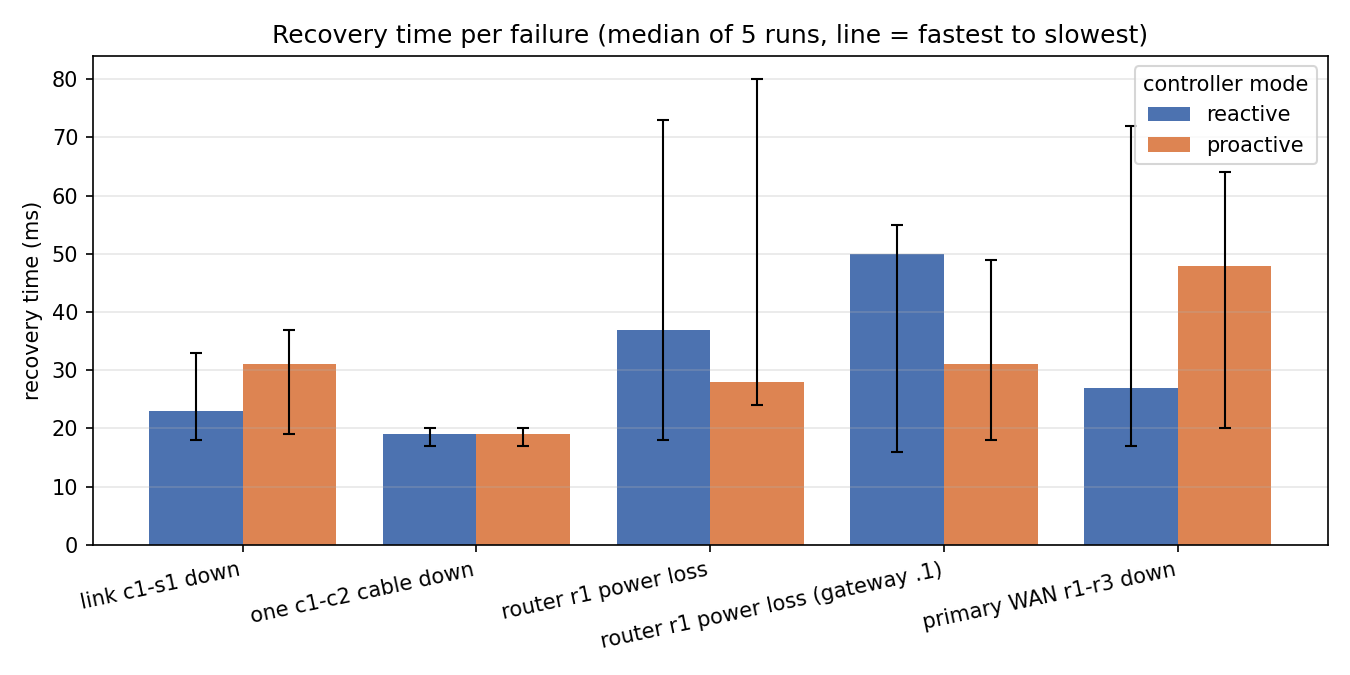
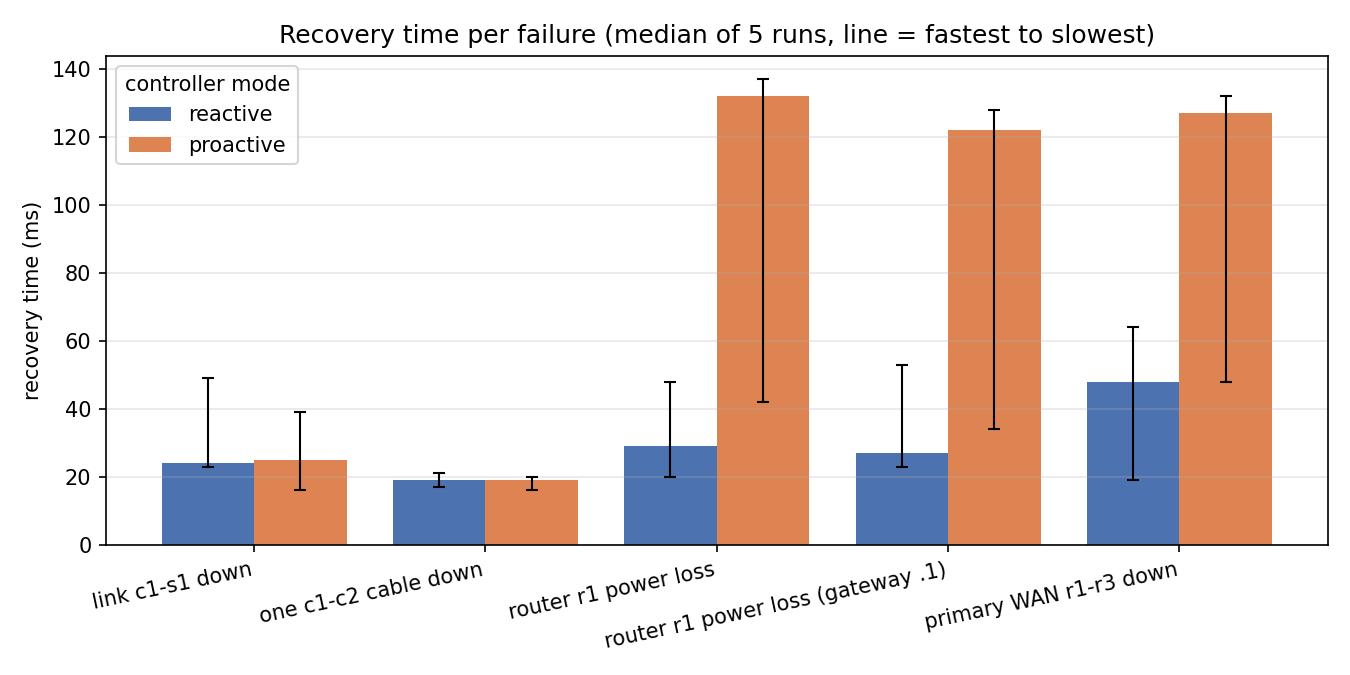
T29: final hardening, three rounds from a fresh boot (D40)
- 150/150 failure runs healed, 15/15 insider runs blocked (median 6.3 s)
- check suite 140/142 after a reboot: the rogue-DHCP test's proof checks fail; recorded
  as a known issue, and every document now says 140/142 instead of 142/142
- reactive vs proactive: the faster mode changes run to run; docs no longer claim one wins
- no secrets in Git or its history; results from round 3 committed

diff --git a/topology/checks.py b/topology/checks.py
@@ -563,9 +563,9 @@ def check_rogue(net, lab, r):
         fake.cmd(f"printf 'interface {fake.name}-eth0\\nstart 192.168.40.150\\nend 192.168.40.160\\n"
                  f"lease_file {d}/udhcpd.leases\\npidfile {d}/udhcpd.pid\\nopt router 192.168.40.66\\n' > {d}/udhcpd.conf;"
                  f" touch {d}/udhcpd.leases; busybox udhcpd -f {d}/udhcpd.conf > {d}/udhcpd.txt 2>&1 &")
-        # Wait until the fake server is really listening on UDP 67 (up to 5 s). A fixed 1 s sleep
-        # was too short straight after a VM boot: the request came before the fake server was
-        # up, so it never offered anything and the test had nothing to prove (T29).
+        # Wait until the fake server is listening on UDP 67 (up to 5 s). Known issue (D40): after a
+        # fresh VM boot the fake server still never sends an OFFER, so the two proof checks below
+        # fail; the protection check above passes. Cause not yet found.
         for _ in range(25):
             if fake.cmd("ss -Hlun 'sport = :67'").strip():
                 break

diff --git a/docs/testing.md b/docs/testing.md
@@ -10,7 +10,7 @@ from a file in [`docs/results/`](results).
 |------|------------------------|------|--------|
 | Environment | `./scripts/vm/vm.sh ./scripts/check_env.sh --smoke` | 1 min | ✅ per tool |
 | Config | `./scripts/vm/vm.sh python3 scripts/check_config.py` | seconds | errors, if any |
-| Full health + failure suite | `./scripts/vm/vm.sh sudo ./scripts/start_all.sh --check` | ~8 min | 142 checks, exit code = failures |
+| Full health + failure suite | `./scripts/vm/vm.sh sudo ./scripts/start_all.sh --check` | ~8 min | 142 checks (140 pass after a reboot, see §6), exit code = failures |
 | Chaos test (T25) | `./scripts/vm/vm.sh sudo python3 scripts/chaos_test.py` | ~30 min | `results.csv`, `summary.csv`, `detection.csv`, 3 charts |
 | One failure only | `./scripts/vm/vm.sh sudo python3 scripts/chaos_test.py --runs 1 --only WAN` | 2 min | same files |
 | Threat scoring | `./scripts/vm/vm.sh '~/venvs/fortress/bin/python detection/threat_engine.py --self-check'` | seconds | worked examples pass |
@@ -19,7 +19,10 @@ from a file in [`docs/results/`](results).
 
 Only one lab can run in the VM at a time: each of these starts its own and clears any other.
 
-## 2. The health and failure suite (`start_all.sh --check`): 142/142
+## 2. The health and failure suite (`start_all.sh --check`): 140/142
+
+142/142 on a lab that has been running a while; **140/142 straight after a VM reboot**, in all three
+T29 rounds: the rogue-DHCP test's two *proof* checks fail (known issue, §6 and D40).
 
 [`topology/checks.py`](../topology/checks.py) runs these in order on the live lab. The first group
 only looks; the second (marked ⚡) breaks things on purpose and checks the repair.
@@ -68,22 +71,20 @@ Result, from [`summary.csv`](results/summary.csv) (all 50 runs healed by themsel
 
 | Failure | Mechanism | Reactive median (min-max) | Proactive median (min-max) |
 |---------|-----------|---------------------------|----------------------------|
-| Link c1-s1 down | SDN reroute / fast-failover | 23 ms (18-33) | 31 ms (19-37) |
-| One c1-c2 cable down | link aggregation | 19 ms (17-20) | 19 ms (17-20) |
-| r1 power loss (routed traffic) | VRRP | 37 ms (18-73) | 28 ms (24-80) |
-| r1 power loss (pinging the gateway) | VRRP takeover | 50 ms (16-55) | 31 ms (18-49) |
-| Primary WAN r1-r3 down | OSPF, VPN on loopbacks | 27 ms (17-72) | 48 ms (20-64) |
+| Link c1-s1 down | SDN reroute / fast-failover | 24 ms (23-49) | 25 ms (16-39) |
+| One c1-c2 cable down | link aggregation | 19 ms (17-21) | 19 ms (16-20) |
+| r1 power loss (routed traffic) | VRRP | 29 ms (20-48) | 132 ms (42-137) |
+| r1 power loss (pinging the gateway) | VRRP takeover | 27 ms (23-53) | 122 ms (34-128) |
+| Primary WAN r1-r3 down | OSPF, VPN on loopbacks | 48 ms (19-64) | 127 ms (48-132) |
+
+This is the final committed run (T29 round 3). Across all three T29 rounds, from a fresh VM boot
+each time, **150 of 150 failure runs healed by themselves**.
 
 ![Recovery per failure](results/recovery_by_failure.png)
 
 **Reading the numbers honestly.** Mininet hosts manage about 55 pings/s, so the measurement
 resolves about 20 ms; most of these recoveries are at or near that floor. What the table really
-shows: every failure heals by itself, in well under a tenth of a second, in both modes. Between
-the modes there is **no consistent difference**: across two full runs, the faster mode flipped for
-the cut cable and the WAN cut. The one repeatable gap is r1's power loss (proactive 26 and 28 ms,
-reactive 50 and 37 ms), where the proactive backup buckets move traffic to r2's port without
-waiting for the controller. In this small, fast lab the controller reacts almost as quickly as the
-switch; fast-failover would matter more where the controller is far away or busy. VRRP itself takes 0.7 s to declare r2
+shows: every failure heals by itself, within about a tenth of a second at worst, in both modes. Between the modes there is **no consistent difference**: across five full runs, the faster mode changed from run to run for every failure (in the final run proactive was slower when r1 died or the WAN was cut, about 130 ms, while in the run before it was faster). In this small, fast lab the controller reacts about as quickly as the switch itself; fast-failover would matter more where the controller is far away or busy. VRRP itself takes 0.7 s to declare r2
 Master, yet hosts lose nothing, because r2 already owns the virtual MAC and forwards as soon as
 frames reach it (D39).
 
@@ -126,6 +127,11 @@ Testing earned its keep: each of these was found by a test, not by reading code.
 | demo rehearsal | FOB traffic pauses ~5 s while r1 is dead | known limit, explained in the demo; fix = second tunnel on r2 | D28 |
 
 ## 6. Known limits
+
+- **After a fresh VM boot, `--check` is 140/142.** The rogue-DHCP test's protection check passes
+  (the victim still gets its address from srv1), but its fake DHCP server never sends an offer, so
+  the two checks that prove the controller dropped it fail. Passes on a lab that has been running.
+  Recorded, cause not found (D40).
 
 - **r1 dying stops FOB traffic for about 3-5 s.** The tunnel lives on r1; r3 must first notice r1
   is dead (dead-peer detection) before traffic falls back, unencrypted, via r2. A second tunnel on

diff --git a/CLAUDE.md b/CLAUDE.md
@@ -113,9 +113,10 @@ Follow these in every network task. If one turns out wrong, change `docs/decisio
 
 ## Status
 Live claims are in the `CLAUDE-CODE-TASKS.md` checklist; this is a short summary.
-- Done: T-1 (scripts; each member runs `create_vm.sh` on their own machine), T00 (this file), T01 (scaffold + `config/fortress.yaml`), T02 (`setup_vm.sh`, `check_env.sh`; Ryu on 3.9; snapshot `clean-setup`), T02b (decisions D10–D15), T03 (`topology/fortress_topo.py`, `--check`), T04 (dnsmasq on srv1, relays on r1/r2, udhcpc), T05 (FRR OSPF per router, floating static, NAT), T06 (VRRP via vrrpd + macvlan; `fail`/`recover` CLI), T07 (`start_all.sh` / `stop_all.sh`), T08 (Ryu controller: 4-table pipeline, controller flooding; D21), T09 (reroute on port-down, `reroutes.jsonl`), T09b (`scripts/measure.py`, `docs/results/early.csv`), T10 (c1-c2 aggregation via select groups, not an OVS bond; D24), T11 (`--mode proactive`: fast-failover groups; D25), T12 (HTB queues + controller set_queue; D26), T13 (controller drops never-talk pairs, r1/r2 stateful firewall, port security, rogue DHCP; D27), T14 (strongSwan r1<->r3 via VICI; D28), T15 (sshd per node, Management-only; rsyslog to srv2; D29), T17 (Suricata on both core mirrors; D30), T18 (flow collector, baseline traffic, srv3 web server; D31), T19 (Isolation Forest, 2.2% false positives; D32), T20 (explainable score with correlation; D33), T21 (block at the access port with expiry; D34), T23 (exporter, Prometheus, provisioned Grafana dashboard; D35), T24 (Telegram alert with reasons, incident reports; D36), T25 (`scripts/chaos_test.py` + `charts.py`: 5 failures x 5 runs x 2 modes, all self-healed, plus insider timing in `detection.csv`; found and fixed the VPN dying on a cut WAN, now between loopbacks; D39), T26 (`scripts/demo.sh`, `--auto` rehearsal), T27 (README, `docs/architecture.md`, `docs/testing.md`, `docs/cisco-equivalents.md`, `docs/report/report.md`), T28 (`docs/viva-prep.md`: every viva topic with a short answer linked to the code line). Tag: `v0.6-detection`. Tags: `v0.1-base`, `v0.2-routing`, `v0.3-selfheal`, `v0.4-security`.
+- Done: T-1 (scripts; each member runs `create_vm.sh` on their own machine), T00 (this file), T01 (scaffold + `config/fortress.yaml`), T02 (`setup_vm.sh`, `check_env.sh`; Ryu on 3.9; snapshot `clean-setup`), T02b (decisions D10–D15), T03 (`topology/fortress_topo.py`, `--check`), T04 (dnsmasq on srv1, relays on r1/r2, udhcpc), T05 (FRR OSPF per router, floating static, NAT), T06 (VRRP via vrrpd + macvlan; `fail`/`recover` CLI), T07 (`start_all.sh` / `stop_all.sh`), T08 (Ryu controller: 4-table pipeline, controller flooding; D21), T09 (reroute on port-down, `reroutes.jsonl`), T09b (`scripts/measure.py`, `docs/results/early.csv`), T10 (c1-c2 aggregation via select groups, not an OVS bond; D24), T11 (`--mode proactive`: fast-failover groups; D25), T12 (HTB queues + controller set_queue; D26), T13 (controller drops never-talk pairs, r1/r2 stateful firewall, port security, rogue DHCP; D27), T14 (strongSwan r1<->r3 via VICI; D28), T15 (sshd per node, Management-only; rsyslog to srv2; D29), T17 (Suricata on both core mirrors; D30), T18 (flow collector, baseline traffic, srv3 web server; D31), T19 (Isolation Forest, 2.2% false positives; D32), T20 (explainable score with correlation; D33), T21 (block at the access port with expiry; D34), T23 (exporter, Prometheus, provisioned Grafana dashboard; D35), T24 (Telegram alert with reasons, incident reports; D36), T25 (`scripts/chaos_test.py` + `charts.py`: 5 failures x 5 runs x 2 modes, all self-healed, plus insider timing in `detection.csv`; found and fixed the VPN dying on a cut WAN, now between loopbacks; D39), T26 (`scripts/demo.sh`, `--auto` rehearsal), T27 (README, `docs/architecture.md`, `docs/testing.md`, `docs/cisco-equivalents.md`, `docs/report/report.md`), T28 (`docs/viva-prep.md`: every viva topic with a short answer linked to the code line), T29 (3 clean-boot rounds: 150/150 failures healed, 15/15 insiders blocked, `--check` 140/142 after a reboot; no secrets in Git; D40). Tags: `v0.1-base`, `v0.2-routing`, `v0.3-selfheal`, `v0.4-security`, `v0.6-detection`, `v0.7-response`, `v1.0-final`.
 - Not doing: T22 (threat-aware rerouting). Built and tested, then dropped: an access switch is never a transit node here and routed traffic must reach the VRRP master's core, so there is no path to separate (D37).
-- Next free: T29 (final hardening: 3 clean chaos runs, no secrets, tag `v1.0-final`).
+- All tasks done. Known issue: after a fresh VM boot the rogue-DHCP test's two proof checks fail (`--check` 140/142); the protection itself passes (D40).
+- The trained model (`detection/data/model.joblib`) is not in Git: train it on each new VM before a demo, or the engine scores on rules alone.
 
 ## Running the lab (from the Mac)
 - Start: `./scripts/vm/vm.sh sudo ./scripts/start_all.sh [--small] [--standalone]`: clean slate, clock, config check, Ryu controller (unless `--standalone`), topology, FRR (OSPF + VRRP), NAT, DHCP/DNS, health check, then the Mininet CLI. `exit` in the CLI stops everything.

diff --git a/docs/decisions.md b/docs/decisions.md
@@ -444,9 +444,41 @@ is 4 s, so a WAN failover can't be 35 ms. Checking the raw ping logs found:
 themselves; median recovery, reactive / proactive): link c1-s1 23 / 31 ms, one core cable 19 /
 19 ms, r1 power loss 37 / 28 ms (routed) and 50 / 31 ms (gateway address), primary WAN 27 / 48 ms.
 The ping stream resolves about 20 ms, and an earlier full run had the cable and WAN orderings the
-other way round, so the modes are not reliably different here; only r1's power loss favoured
-proactive in both runs. Insider response (`detection.csv`): blocked in 5/5 runs, median 6.3 s
-after the sweep began (1.3-7.3 s), scores 92-93 from four signals. The full suite is 142/142.
+other way round, so the modes are not reliably different here (T29's three further runs confirmed
+it, D40). Insider response (`detection.csv`): blocked in 5/5 runs, median 6.3 s after the sweep
+began (1.3-7.3 s), scores 92-93 from four signals. The full suite was 142/142 at the time.
 
 D28's known limit (r1 dying completely sends base <-> FOB traffic unencrypted via r2) still holds;
 the loopbacks fix the cut-cable case, not the dead-router case.
+
+## T29: Final hardening
+
+**D40. Three rounds from a fresh boot; one known issue recorded, not hidden.**
+Each round rebooted the VM, re-synced the clock, ran `start_all.sh --check`, then the full chaos
+test (5 failures x 5 runs x 2 modes, plus 5 insider runs).
+
+| Round | Check suite | Failure runs healed by themselves | Insider blocked |
+|-------|-------------|-----------------------------------|-----------------|
+| 1 | 139/142 | 50/50 | 5/5, median 6.3 s |
+| 2 | 140/142 | 50/50 | 5/5, median 6.3 s |
+| 3 | 140/142 | 50/50 | 5/5, median 6.3 s |
+
+- **The network itself never failed:** 150/150 failure runs healed, 15/15 insider runs blocked
+  (1.3-7.3 s, scores 92-93), in every round.
+- **Known issue: the rogue-DHCP test's two proof checks fail after a fresh boot (all 3 rounds).**
+  The protection check passes (bar2 still gets its correct address from srv1), but the test's
+  fake DHCP server on bar1 never sends an OFFER, so there is nothing for the controller to drop
+  and the test cannot show the drop. It passed on a lab that had been running (142/142, T25). A
+  wait for the fake server to listen (T29) did not change it. We chose to record it rather than
+  spend more time on it, because it is a test-setup problem in a feature the demo doesn't use;
+  the cause is not yet known. Every document now says 140/142 after a reboot instead of 142/142.
+- **Round 1 also failed "cmd1 still reaches fob1"** in the r1 power-loss test once: that is the
+  known 3-5 s FOB pause while r1 is dead (D28), landing inside the check's ping window.
+- **Reactive vs proactive:** the final run had proactive at about 130 ms for r1's power loss and
+  the WAN cut (reactive 29 and 48 ms), the opposite of the run before. With five full runs, the
+  only honest statement is that the modes cannot be told apart in this lab; every document says so.
+- **Secrets:** no secret file is tracked, and no token-shaped string appears anywhere in Git's
+  history (only the documented placeholder `123456:AA...`). `.env`, `*.key` and `*.joblib` are
+  ignored; the VPN key is made fresh at each start and stays on the VM's disk (D28).
+- **Not in Git: the trained model** (`detection/data/model.joblib`). On a new machine, train it
+  (README) or the engine scores on rules alone and says so.

diff --git a/docs/report/report.md b/docs/report/report.md
@@ -118,7 +118,10 @@ Full details and how to repeat every test: [`docs/testing.md`](../testing.md).
 ### 4.1 Automated health and failure suite
 `start_all.sh --check` runs 142 checks on the live network, from DHCP leases and OSPF adjacencies
 to a full insider attack, including eight disruptive tests that break something on purpose and
-check the repair. Final result: **142/142**.
+check the repair. Result: **142/142** on a lab that has been up for a while, and **140/142**
+straight after a VM reboot (three rounds in a row). The two failures are the rogue-DHCP test's
+proof steps: the protected host still gets its correct address, but the test's fake DHCP server
+does not answer in time, so the drop cannot be shown. It is recorded as a known issue (D40).
 
 ### 4.2 Recovery, measured (chaos test)
 
@@ -126,18 +129,20 @@ check the repair. Final result: **142/142**.
 
 | Failure | Mechanism | Reactive | Proactive | Healed by itself |
 |---------|-----------|----------|-----------|------------------|
-| Core–access cable cut | SDN reroute / fast-failover | 23 ms | 31 ms | 10/10 |
+| Core–access cable cut | SDN reroute / fast-failover | 24 ms | 25 ms | 10/10 |
 | One of two core cables cut | link aggregation | 19 ms | 19 ms | 10/10 |
-| Gateway router r1 loses power | VRRP | 37 ms | 28 ms | 10/10 |
-| Primary WAN cut | OSPF, VPN on loopbacks | 27 ms | 48 ms | 10/10 |
+| Gateway router r1 loses power | VRRP | 29 ms | 132 ms | 10/10 |
+| Primary WAN cut | OSPF, VPN on loopbacks | 48 ms | 127 ms | 10/10 |
+
+Repeated three times from a fresh VM boot (T29): **150/150 failure runs healed by themselves**,
+and the insider was blocked in **15/15** runs.
 
 ![Recovery time per failure](../results/recovery_by_failure.png)
 
 The measurement resolves about 20 ms, so most of these are at its floor: the honest conclusion is
-that every failure is bypassed automatically in well under 0.1 s. Between the two modes there
-is no consistent difference except r1's power loss, where proactive was faster in both full runs
-(26 vs 50 ms, then 28 vs 37 ms): in a small lab the controller reacts almost as fast as the
-switch itself.
+that every failure is bypassed automatically, within about 0.14 s at worst. Across five full runs
+the faster of the two modes changed from run to run for every failure, so they cannot be told
+apart here: in a small lab the controller reacts about as fast as the switch itself.
 
 ### 4.3 Insider attack
 In 5 timed runs, a 200-port sweep from Barracks host bar3 was flagged by Suricata 1.3 s after it

diff --git a/docs/viva-prep.md b/docs/viva-prep.md
@@ -330,9 +330,13 @@ outage that never ended, and behind it the VPN didn't survive a cut WAN cable. B
 three more VPN faults ([testing.md §5](testing.md)). An examiner will like this: it shows we
 tested rather than assumed.
 
-**Is proactive faster than reactive?** Not reliably in our lab: both recover in ~20-50 ms and the
-order flipped between runs, except r1's power loss, where proactive won both times. The
-controller is local and quick here; fast-failover matters more with a remote or busy controller.
+**Is proactive faster than reactive?** Not in our lab: both recover in roughly 20-130 ms, and
+across five full runs the faster mode changed from run to run for every failure. The controller
+is local and quick here; fast-failover matters more with a remote or busy controller.
+
+**Does everything pass?** 142/142 on a running lab; 140/142 straight after a reboot. The two
+failures are the rogue-DHCP test's proof steps (the fake server doesn't answer in time, so the
+drop can't be shown); the protected host still gets the right address. Known issue, D40.
 
 **Why did you drop T22 (threat-aware rerouting)?** We built it and tested it: in this topology an
 access switch is never a transit node, and routed traffic has to reach the VRRP Master's core, so

diff --git a/docs/architecture.md b/docs/architecture.md
@@ -141,10 +141,10 @@ flowchart LR
 
 | Failure | What notices | What repairs it | Measured (median, 5 runs) |
 |---------|--------------|-----------------|---------------------------|
-| Core–access cable cut | the switch (port down) | controller reroute / fast-failover group | 23 ms reactive, 31 ms proactive |
+| Core–access cable cut | the switch (port down) | controller reroute / fast-failover group | 24 ms reactive, 25 ms proactive |
 | One of the two c1-c2 cables | the switch | select group drops the dead member | 19 / 19 ms |
-| r1 loses power | VRRP adverts stop (every 200 ms) | r2 becomes Master in 0.7 s; traffic moves in ~20-50 ms | 37 / 28 ms |
-| Primary WAN r1-r3 cut | carrier loss, OSPF (1 s hellos) | OSPF reroutes via r2; VPN follows (loopbacks) | 27 / 48 ms |
+| r1 loses power | VRRP adverts stop (every 200 ms) | r2 becomes Master in 0.7 s; traffic moves in ~20-130 ms | 29 / 132 ms |
+| Primary WAN r1-r3 cut | carrier loss, OSPF (1 s hellos) | OSPF reroutes via r2; VPN follows (loopbacks) | 48 / 127 ms |
 
 Numbers from [`docs/results/summary.csv`](results/summary.csv); how they were measured is in
 [`testing.md`](testing.md).

diff --git a/CLAUDE-CODE-TASKS.md b/CLAUDE-CODE-TASKS.md
@@ -290,6 +290,6 @@ Every member does T-1 on their own machine; the box records that the scripts exi
 - [x] T26 Demo mode
 - [x] T27 Documentation and report
 - [x] T28 Viva prep sheet
-- [~] T29 Final hardening (claimed: dev-the-dev-while-deving, 2026-11-07)
+- [x] T29 Final hardening (3 rounds from a fresh boot: 150/150 failures healed, 15/15 insiders blocked; check suite 140/142, rogue-DHCP proof is a known issue, D40)
 
 **Minimum version if time runs out:** T-1, T00–T09b, T11, T13, T17–T21, T25. That still includes three of the six signature features.
